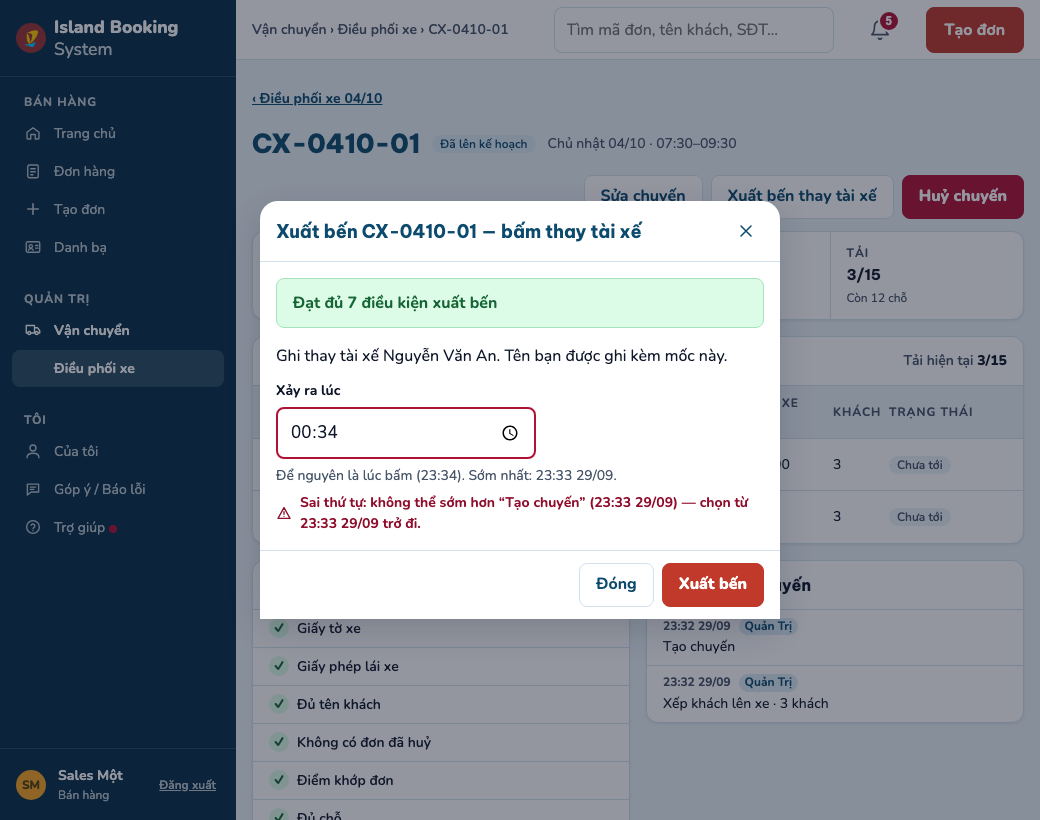
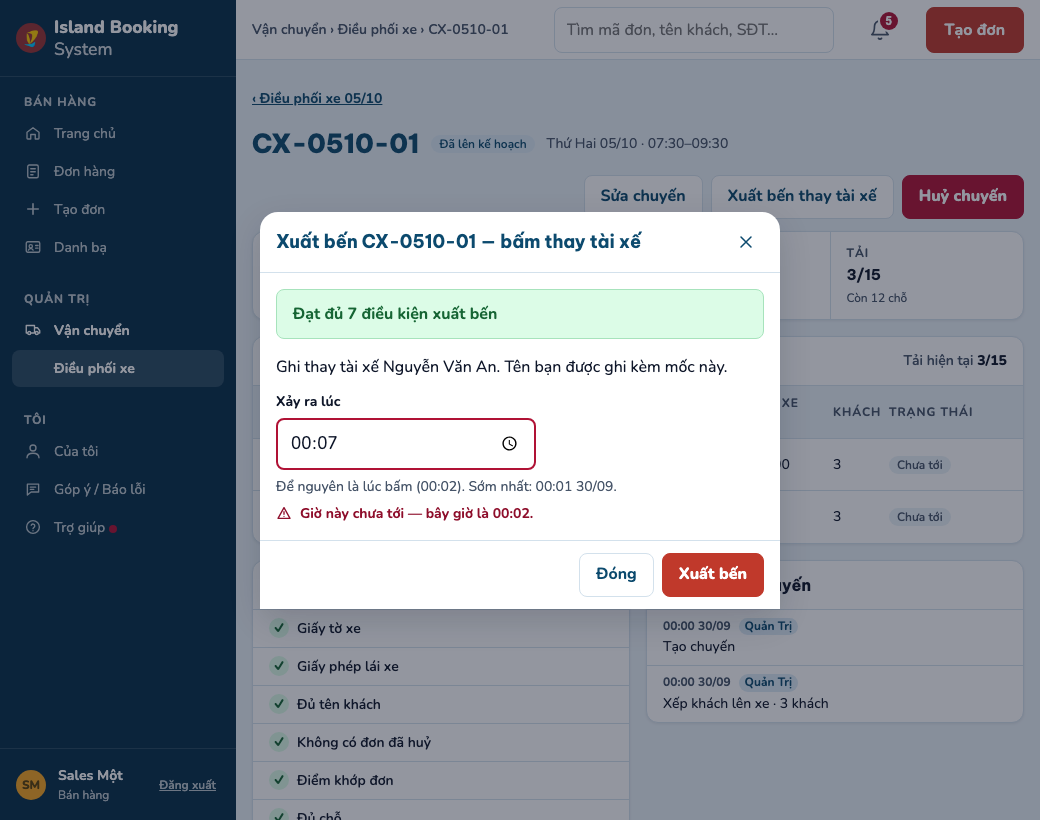
Giờ khai "xảy ra lúc": chọn ngày gần lúc bấm nhất; bỏ bộ câu giờ khai cũ trùng
Vì sao: giờ gõ nhầm hơi sau lúc bấm bị coi là hôm qua nên câu "Giờ này chưa tới" của bản vẽ 6d
không bao giờ hiện (người cố vấn chỉ ra); hai bộ câu từ chối giờ khai cho một việc (bộ cũ ở
dieu-phoi-hien-thi.ts, không nơi gọi) — giữ một nguồn ở tien-do-man.ts.
- xayRaLucTu: hôm qua / hôm nay / ngày mai, chọn cái gần lúc bấm nhất (test đỏ trước).
- cuoc-smoke bước 7 khẳng định "Giờ này chưa tới — bây giờ là HH:MM." — 10/10.
- Xoá cauTuChoiGioXayRa, nhanSomNhat, nhanAiXuLy + test; sửa đầu tệp, SYSTEM-DESIGN, nhật ký.

Tự khai, chưa có người kiểm độc lập.

Claude-Session: https://claude.ai/code/session_012uzHHEgA3ZBQkvhnpB7ynZ

diff --git a/src/shared/dieu-phoi-hien-thi.ts b/src/shared/dieu-phoi-hien-thi.ts
@@ -1,14 +1,12 @@
 // Khối hiển thị THUẦN cho các màn Bảng điều phối B1–B6 (V1 Điều phối xe, V2 Chi tiết chuyến, V5 Cuốc của tôi, V6 Chuyến đang chạy, V7 Xuất bến) — ADR-0049,
-// ADR-0050; bản vẽ docs/design/van-chuyen-dieu-phoi/; bản đối chiếu DOI-CHIEU-2026-09-29.md (H14, H15, mục 2.5, thành phần A, B). CHƯA nối trang nào: route
-// A13 / A15 chưa có trên nhánh giao diện (người thi công máy chủ làm song song). Hình dữ liệu vào theo kế hoạch mục 1.8 (tên khoá tiếng Việt); không thêm khoá
-// DTO nào. Câu chữ lấy từ các bảng nhãn có sẵn (`NHAN_GIO_XAY_RA`, `MA_GIU` qua `LyDoGiu.loiNhan`, `NHAN_AI_XU_LY`) — không đặt chữ mới cho mã đã có nhãn.
+// ADR-0050; bản vẽ docs/design/van-chuyen-dieu-phoi/; bản đối chiếu DOI-CHIEU-2026-09-29.md (H15, mục 2.5, thành phần B). Đã nối: `nhanMocTienDo` (web/tien-do-ui.ts),
+// `dongDieuKienTaiXe` (tien-do-man.ts). Câu "Sớm nhất" / câu từ chối giờ khai nay CHỈ ở tien-do-man.ts (theo DTO 409 của A15) — bản cũ ở đây đã xoá (tránh
+// hai luật). Không thêm khoá DTO nào; câu lý do lấy nguyên `LyDoGiu.loiNhan` — không đặt chữ mới cho mã đã có nhãn.
 // Không I/O, không DOM; import kèm đuôi .ts. Test: dieu-phoi-hien-thi.test.ts.
-import { NHAN_GIO_XAY_RA, type MaGioXayRa } from "./gio-xay-ra.ts";
-import { NHAN_AI_XU_LY, type LyDoGiu } from "./ly-do-giu.ts";
+import type { LyDoGiu } from "./ly-do-giu.ts";
 import { maskLongDigits } from "./text-guards.ts";
 import { msToVnLocal } from "./vn-date.ts";
 
-const PHUT = 60_000;
 const HHMM = /^\d\d:\d\d$/;
 
 /** Giờ hiển thị "HH:MM" theo giờ VN: nhận sẵn "HH:MM" (DTO "giờ VN hiển thị" — mục 1.8) hoặc mốc ISO. */
@@ -35,17 +33,6 @@ export function nhanMocTienDo(m: MocTienDoVao): { chu: string; vanPhongKhai: boo
   return { chu: `${xayRa} · ghi lúc ${gioVn(m.gioGhiNhan)}${ten}`, vanPhongKhai: true };
 }
 
-/** Thành phần A trạng thái 3: giờ sớm nhất được khai, làm tròn LÊN phút kế (kế hoạch I34) — "Sớm nhất: 07:11". */
-export function nhanSomNhat(somNhatMs: number): string {
-  return `Sớm nhất: ${msToVnLocal(Math.ceil(somNhatMs / PHUT) * PHUT).time}`;
-}
-
-/** Thành phần A trạng thái 4: câu từ chối cho từng mã `kiemGioXayRa`; có mốc sớm nhất (409 kèm `somNhat` — R-P14, máy chủ sẽ thêm) thì nối giờ. */
-export function cauTuChoiGioXayRa(ma: MaGioXayRa, somNhatMs?: number): string {
-  const somNhat = somNhatMs === undefined ? "" : ` — sớm nhất ${msToVnLocal(Math.ceil(somNhatMs / PHUT) * PHUT).time}`;
-  return `${NHAN_GIO_XAY_RA[ma]}${somNhat}.`;
-}
-
 /**
  * V5 / V7 trên màn TÀI XẾ (bản đối chiếu 2.5, H15): chỉ điều kiện CÒN THIẾU (`dieuKienConThieu[]` của DTO tài xế — mã, câu, ai xử lý; không hạn, không số giấy
  * tờ), mỗi dòng kèm "(văn phòng lo)" — với tài xế, Quản trị / Toàn quyền cũng là văn phòng. Đạt hết → một dòng "Đủ điều kiện xuất bến".
@@ -55,7 +42,3 @@ export function dongDieuKienTaiXe(conThieu: readonly Pick<LyDoGiu, "loiNhan">[])
   return conThieu.map((d) => `${d.loiNhan} (văn phòng lo)`);
 }
 
-/** H14: dòng "Ai xử lý: …" của một lý do giữ trên màn văn phòng (V1, V2, V7) — nhãn từ `NHAN_AI_XU_LY`. */
-export function nhanAiXuLy(l: Pick<LyDoGiu, "aiXuLy">): string {
-  return `Ai xử lý: ${NHAN_AI_XU_LY[l.aiXuLy]}`;
-}

diff --git a/src/shared/dieu-phoi-hien-thi.test.ts b/src/shared/dieu-phoi-hien-thi.test.ts
@@ -1,7 +1,7 @@
 // Khối hiển thị THUẦN cho các màn B1–B6 (chưa nối trang — chờ route A13 / A15): src/shared/dieu-phoi-hien-thi.ts. Hình dữ liệu theo kế hoạch mục 1.8.
 import { test } from "node:test";
 import assert from "node:assert/strict";
-import { cauTuChoiGioXayRa, dongDieuKienTaiXe, gioVn, nhanAiXuLy, nhanMocTienDo, nhanSomNhat } from "./dieu-phoi-hien-thi.ts";
+import { dongDieuKienTaiXe, gioVn, nhanMocTienDo } from "./dieu-phoi-hien-thi.ts";
 import { MA_GIO_XAY_RA, NHAN_GIO_XAY_RA } from "./gio-xay-ra.ts";
 import { lyDoGiu } from "./ly-do-giu.ts";
 import { vnLocalToMs } from "./vn-date.ts";
@@ -22,17 +22,7 @@ test("nhanMocTienDo (thành phần B): tài xế tự bấm / văn phòng không
   assert.equal(nhanMocTienDo({ gioXayRa: "07:31", gioGhiNhan: "07:45", vanPhongKhai: true, nguoiBam: "Hoa 0913552108" }).chu, "07:31 · ghi lúc 07:45 — Hoa ••••••••••");
 });
 
-test("nhanSomNhat (thành phần A trạng thái 3): làm tròn LÊN phút kế — 'Sớm nhất: 07:11'", () => {
-  assert.equal(nhanSomNhat(vnLocalToMs("2026-09-30", "07:10")! + 1), "Sớm nhất: 07:11");
-  assert.equal(nhanSomNhat(vnLocalToMs("2026-09-30", "07:11")!), "Sớm nhất: 07:11");
-  assert.equal(nhanSomNhat(vnLocalToMs("2026-09-30", "23:59")! + 30_000), "Sớm nhất: 00:00");
-});
 
-test("cauTuChoiGioXayRa (thành phần A trạng thái 4): mỗi mã một câu lời thường (NHAN_GIO_XAY_RA); có 'sớm nhất' thì nối số", () => {
-  for (const ma of MA_GIO_XAY_RA) assert.equal(cauTuChoiGioXayRa(ma), `${NHAN_GIO_XAY_RA[ma]}.`);
-  assert.equal(cauTuChoiGioXayRa("LUI_QUA_KEP", vnLocalToMs("2026-09-30", "04:45")!), "Giờ khai lùi quá khoảng cho phép — sớm nhất 04:45.");
-  assert.doesNotMatch(cauTuChoiGioXayRa("DAO_THU_TU"), /[A-Z]{2,}_/);
-});
 
 test("dongDieuKienTaiXe (V5 / V7 màn tài xế — bản đối chiếu 2.5, H15): chỉ điều kiện CÒN THIẾU kèm '(văn phòng lo)', không hạn, không số; đạt hết → 'Đủ điều kiện'", () => {
   assert.deepEqual(dongDieuKienTaiXe([]), ["Đủ điều kiện xuất bến"]);
@@ -44,8 +34,3 @@ test("dongDieuKienTaiXe (V5 / V7 màn tài xế — bản đối chiếu 2.5, H1
   ]);
 });
 
-test("nhanAiXuLy (H14): 'Ai xử lý: <nhãn>' từ NHAN_AI_XU_LY — không mã", () => {
-  assert.equal(nhanAiXuLy(lyDoGiu("NOI_HEN_DOI", "TD-1")), "Ai xử lý: Văn phòng");
-  assert.equal(nhanAiXuLy(lyDoGiu("NGHI_THIEU")), "Ai xử lý: Quản trị");
-  assert.equal(nhanAiXuLy(lyDoGiu("KHONG_CO_HANG_BANG")), "Ai xử lý: Toàn quyền");
-});

diff --git a/src/shared/tien-do-man.ts b/src/shared/tien-do-man.ts
@@ -14,15 +14,17 @@ const hien = (g: GioVnDto, ngayXem: string): string => (g.ngay === ngayXem ? g.g
 
 // ---- ô "Xảy ra lúc" (thành phần A) ------------------------------------------------------------------------------------------------------------------------
 /**
- * Giờ văn phòng chọn ("HH:MM", giờ VN) → `xayRaLuc` ISO có múi giờ. Ngày = hôm nay theo lúc bấm; giờ SAU lúc bấm thì là hôm qua (giờ khai không bao giờ ở
- * tương lai — chuyến chạy qua nửa đêm). Sai khuôn → null. Màn CHỈ gửi khi người bấm đã đổi giờ (I34).
+ * Giờ văn phòng chọn ("HH:MM", giờ VN) → `xayRaLuc` ISO có múi giờ. Ngày = hôm qua / hôm nay / ngày mai theo lúc bấm, chọn cái GẦN lúc bấm nhất: khai lùi qua nửa
+ * đêm (00:10 khai 23:50) → hôm qua; gõ nhầm hơi sau lúc bấm → hôm nay, máy chủ từ chối "chưa tới" (bản vẽ 6d) thay vì hiểu thành "lùi gần một ngày". Sai khuôn
+ * → null. Màn CHỈ gửi khi người bấm đã đổi giờ (I34).
  */
 export function xayRaLucTu(gio: string, bayGioMs: number): string | null {
   if (!HHMM.test(gio)) return null;
   const bay = msToVnLocal(bayGioMs);
-  const ngay = gio > bay.time ? addDays(bay.date, -1) : bay.date;
-  const ms = vnLocalToMs(ngay, gio);
-  return ms === null ? null : new Date(ms).toISOString();
+  const ungVien = [-1, 0, 1].map((n) => vnLocalToMs(addDays(bay.date, n), gio));
+  if (ungVien.some((x) => x === null)) return null;
+  const gan = (ungVien as number[]).reduce((a, b) => (Math.abs(b - bayGioMs) < Math.abs(a - bayGioMs) ? b : a));
+  return new Date(gan).toISOString();
 }
 
 /** Gợi ý dưới ô "Xảy ra lúc" (bản vẽ 5c, 6d): lúc bấm + giờ sớm nhất của máy chủ. */

diff --git a/src/shared/tien-do-man.test.ts b/src/shared/tien-do-man.test.ts
@@ -9,11 +9,14 @@ import { vnLocalToMs } from "./vn-date.ts";
 
 const ms = (ngay: string, gio: string) => vnLocalToMs(ngay, gio)!;
 
-test("xayRaLucTu: 'HH:MM' → ISO có múi giờ; giờ sau lúc bấm hiểu là HÔM QUA (không bao giờ tương lai); sai khuôn → null", () => {
+test("xayRaLucTu: 'HH:MM' → ISO có múi giờ; ngày = hôm qua / hôm nay / ngày mai, chọn cái GẦN lúc bấm nhất (giờ gõ nhầm hơi sau lúc bấm vẫn là hôm nay → máy chủ báo 'chưa tới' như bản vẽ 6d); sai khuôn → null", () => {
   const bay = ms("2026-09-30", "08:00");
   assert.equal(xayRaLucTu("07:31", bay), new Date(ms("2026-09-30", "07:31")).toISOString());
   assert.equal(xayRaLucTu("08:00", bay), new Date(bay).toISOString());
   assert.equal(xayRaLucTu("23:50", bay), new Date(ms("2026-09-29", "23:50")).toISOString(), "qua nửa đêm: chuyến chạy từ tối hôm qua");
+  assert.equal(xayRaLucTu("08:20", bay), new Date(ms("2026-09-30", "08:20")).toISOString(), "20 phút SAU lúc bấm → hôm nay (tương lai — máy chủ từ chối TUONG_LAI)");
+  assert.equal(xayRaLucTu("23:50", ms("2026-10-01", "00:10")), new Date(ms("2026-09-30", "23:50")).toISOString(), "00:10 khai 23:50 → hôm qua");
+  assert.equal(xayRaLucTu("00:04", ms("2026-09-29", "23:59")), new Date(ms("2026-09-30", "00:04")).toISOString(), "23:59 gõ nhầm 00:04 → ngày mai (tương lai, máy chủ báo chưa tới) — không thành lùi gần một ngày");
   assert.equal(xayRaLucTu("7:31", bay), null);
   assert.equal(xayRaLucTu("", bay), null);
   assert.match(xayRaLucTu("07:31", bay)!, /Z$/);

diff --git a/docs/SYSTEM-DESIGN.md b/docs/SYSTEM-DESIGN.md
@@ -800,7 +800,7 @@ Sáu cột quyền cũ ở trên (`SALES`/`ACCOUNTING`/`ADMIN`/`FIELD`/`PARTNER`
 | `dieu-phoi-kiem.ts` | luật thuần điều phối — MỘT hàm cho máy chủ và màn hình, không biết quyền (ADR-0050: `noiLechCuaSuat` — MỘT hàm so nơi hẹn cho cả lý do giữ `NOI_HEN_DOI` của `kiemXuatBen` lẫn cảnh báo K-02 của lịch chung; `kiemXuatBen` nhận `diem` + `xuatBenMs` — khoảng nghỉ đo từ giờ XẢY RA xuất bến): `kiemTaoSuaChuyen` (LC-03 trùng giờ nửa mở, CH-02 khoảng nghỉ → cần phá lệ, LC-12 hạng / hạn GPLX tới hết chuyến theo ngày VN, LC-13 chéo xe – tài xế, mốc khi đổi xe / tài xế), `kiemXep` (LC-09, I13, L-D1, LC-02, LC-10, LC-01 theo tên, mốc), `kiemXuatBen` (cổng xuất bến — trả lý do giữ, bản chụp không số, danh sách gắn tên còn thiếu), `kiemKetThuc` (LC-16), `trongNgayChay`. Chính sách rỗng / hạng lạ → chặn |
 | `chinh-sach-hien-thi.ts` | hiển thị V13 (ADR-0049 B8): giờ ↔ phút của form chính sách (`docFormChinhSach`, câu lỗi theo đơn vị của ô), tóm tắt / lịch sử bản, nhãn điều kiện xuất bến, năm nhóm lý do lượt 1, mã lý do sinh từ nhãn (`maLyDoMoi`) |
 | `dat-gap-hien-thi.ts` | hiển thị V12 (ADR-0049 B7): câu mốc "Giờ đón cách bây giờ … — dưới mốc …", nhãn đặt gấp theo khoá DTO (`nhanDatGap`), chặng nháp còn phải đặt gấp (`changDuoiMoc` — dùng `kiemMocDat`), cảnh báo trên biểu mẫu chưa lưu, thân lệnh đặt gấp (`LY_DO_DAT_GAP`, ghi chú ≤ 120) |
-| `dieu-phoi-hien-thi.ts` | chữ dùng sẵn cho B1–B6 (CHƯA nối trang): hai giờ "07:31 · ghi lúc 07:45 — Hoa", "Sớm nhất: HH:MM", câu từ chối theo mã `kiemGioXayRa`, dòng điều kiện màn tài xế "(văn phòng lo)", "Ai xử lý: …" |
+| `dieu-phoi-hien-thi.ts` | hai giờ của mốc tiến độ "07:31 · ghi lúc 07:45 — Hoa" (`nhanMocTienDo` — nhận giờ TRẦN "HH:MM"), dòng điều kiện màn tài xế "(văn phòng lo)" (`dongDieuKienTaiXe`). Câu "Sớm nhất" và câu từ chối giờ khai CHỈ ở `tien-do-man.ts` |
 | `tien-do-man.ts` | hiển thị TIẾN ĐỘ chuyến (ADR-0049 D3, ADR-0050 VK1-A — A15): ô "Xảy ra lúc" (`xayRaLucTu` — giờ sau lúc bấm là hôm qua; `goiYKhaiGio` — "Sớm nhất" từ máy chủ), câu từ chối 409 `gio_xay_ra_ngoai_khoang` theo mã + mốc gây chặn (`cauTuChoiKhaiGio`), `con_khach_chua_xong` (`cauConKhach`), bước từng điểm + khách của chuyến đang chạy (`buocDiem`), `ketThucDuoc`, thẻ Cuốc của tôi (`nhomCuoc`), giữ tên khách theo id suất khi đọc lại hỏng (`giuTenKhach`, GA-55) |
 | `dieu-phoi-man.ts` | luật hiển thị ba màn văn phòng B1–B3 (ADR-0049) + nhắc gọi báo khách (ADR-0051: `viecGoiBao`, `dongGoiBao`): thẻ chặng + cột Chưa xếp (`chipChang`, `changChuaXep`), dải số liệu, màu / nhãn chuyến (`kieuChuyen`), cột "Cần xử lý" (`viecCanXuLy` — chỉ nhãn DTO, nút theo cờ quyền, không "Gọi tài xế" / "Đã gọi báo"), hình dòng thời gian (`hinhDongThoiGian` — khoảng giờ theo dữ liệu, cờ khoá từ `khoaMoc`), câu khoá (`cauKhoaMoc`), điều kiện xuất bến, điểm dừng, nhật ký chuyến, 409 → ô (`truongLoiChuyen`), `requestId` lặp lại sau mất mạng (`idChoLenh`), cổng mục menu `thayDieuPhoiXe` |
 | `gio-xay-ra.ts` | **giờ xảy ra thật khi văn phòng bấm thay** (ADR-0050 VK1-A, nhánh ADR-0049 chưa gộp): `kiemGioXayRa` — kẹp lùi theo chính sách, không tương lai, thứ tự trong chuyến (xuất bến ≤ tiến độ; đã tới ≤ sự kiện suất ở điểm; đã đón ≤ đã trả), xuất bến ≥ kết thúc thật chuyến trước cùng xe / tài xế, không sớm hơn lần sửa kế hoạch / đổi thứ tự / mở suất (so GIỜ GHI NHẬN); chỉ tám loại tiến độ được khai (`LOAI_SU_KIEN_KHAI_GIO`); mã `MA_GIO_XAY_RA` + nhãn. Route bấm thay (A15) chưa có |
